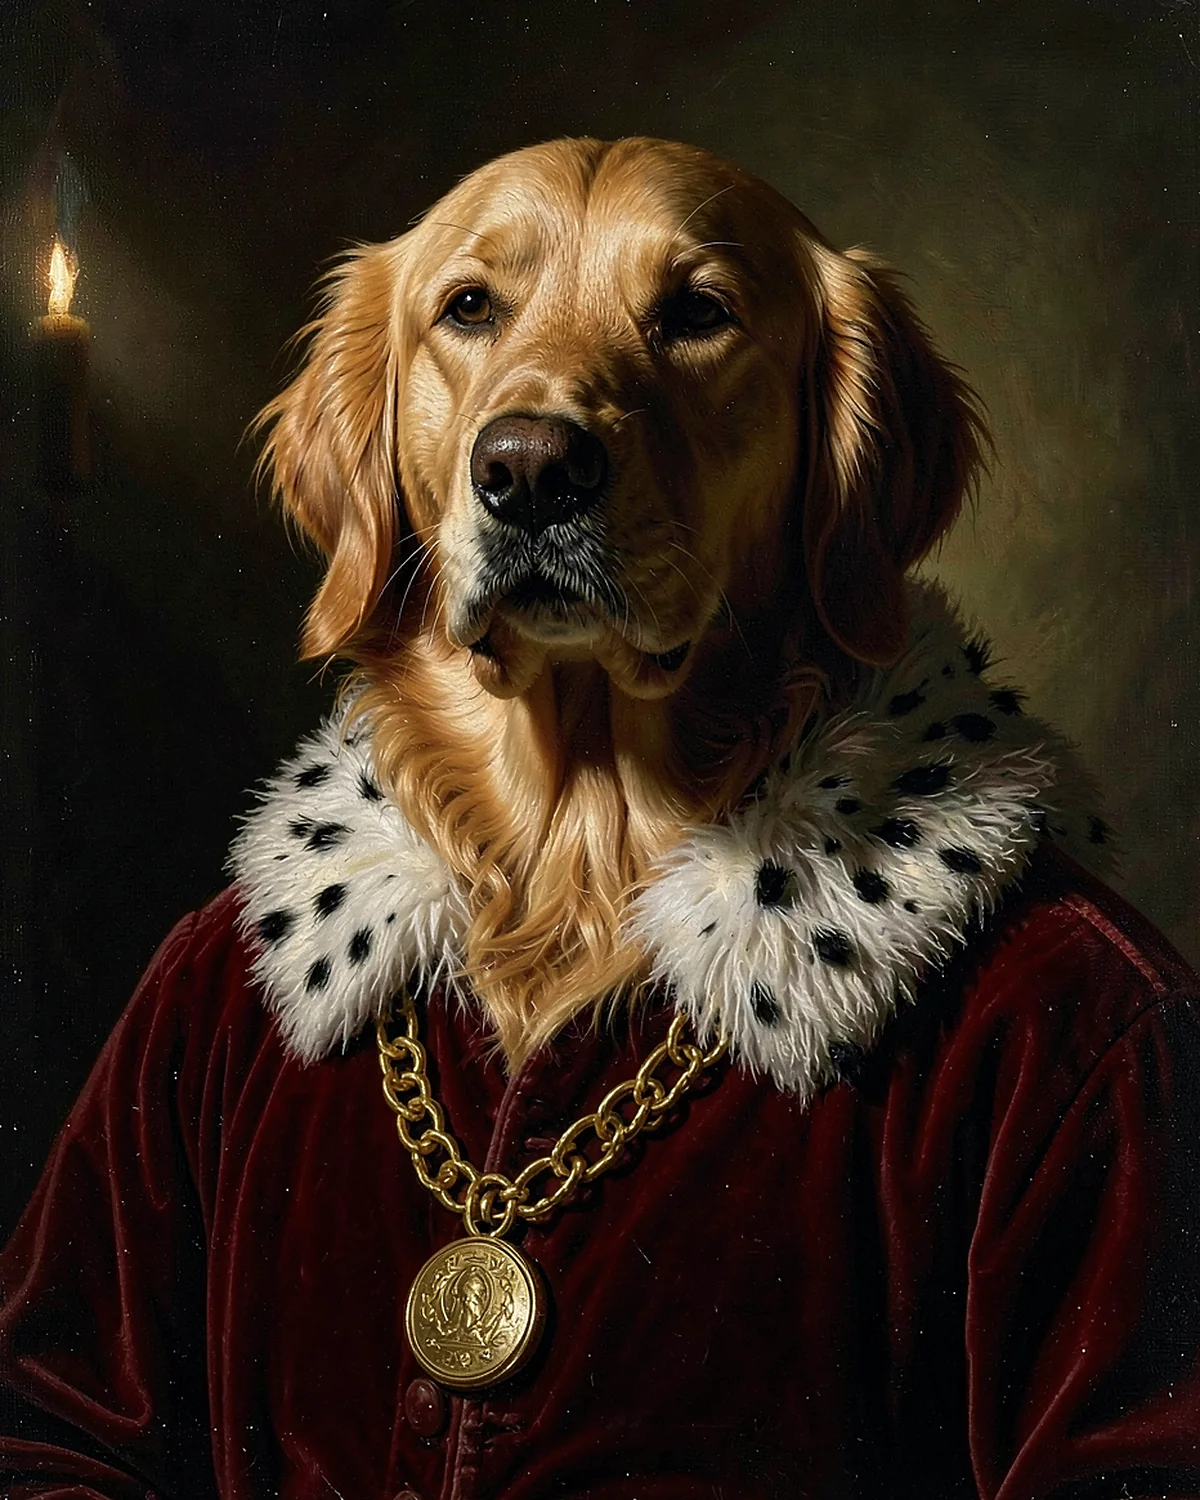
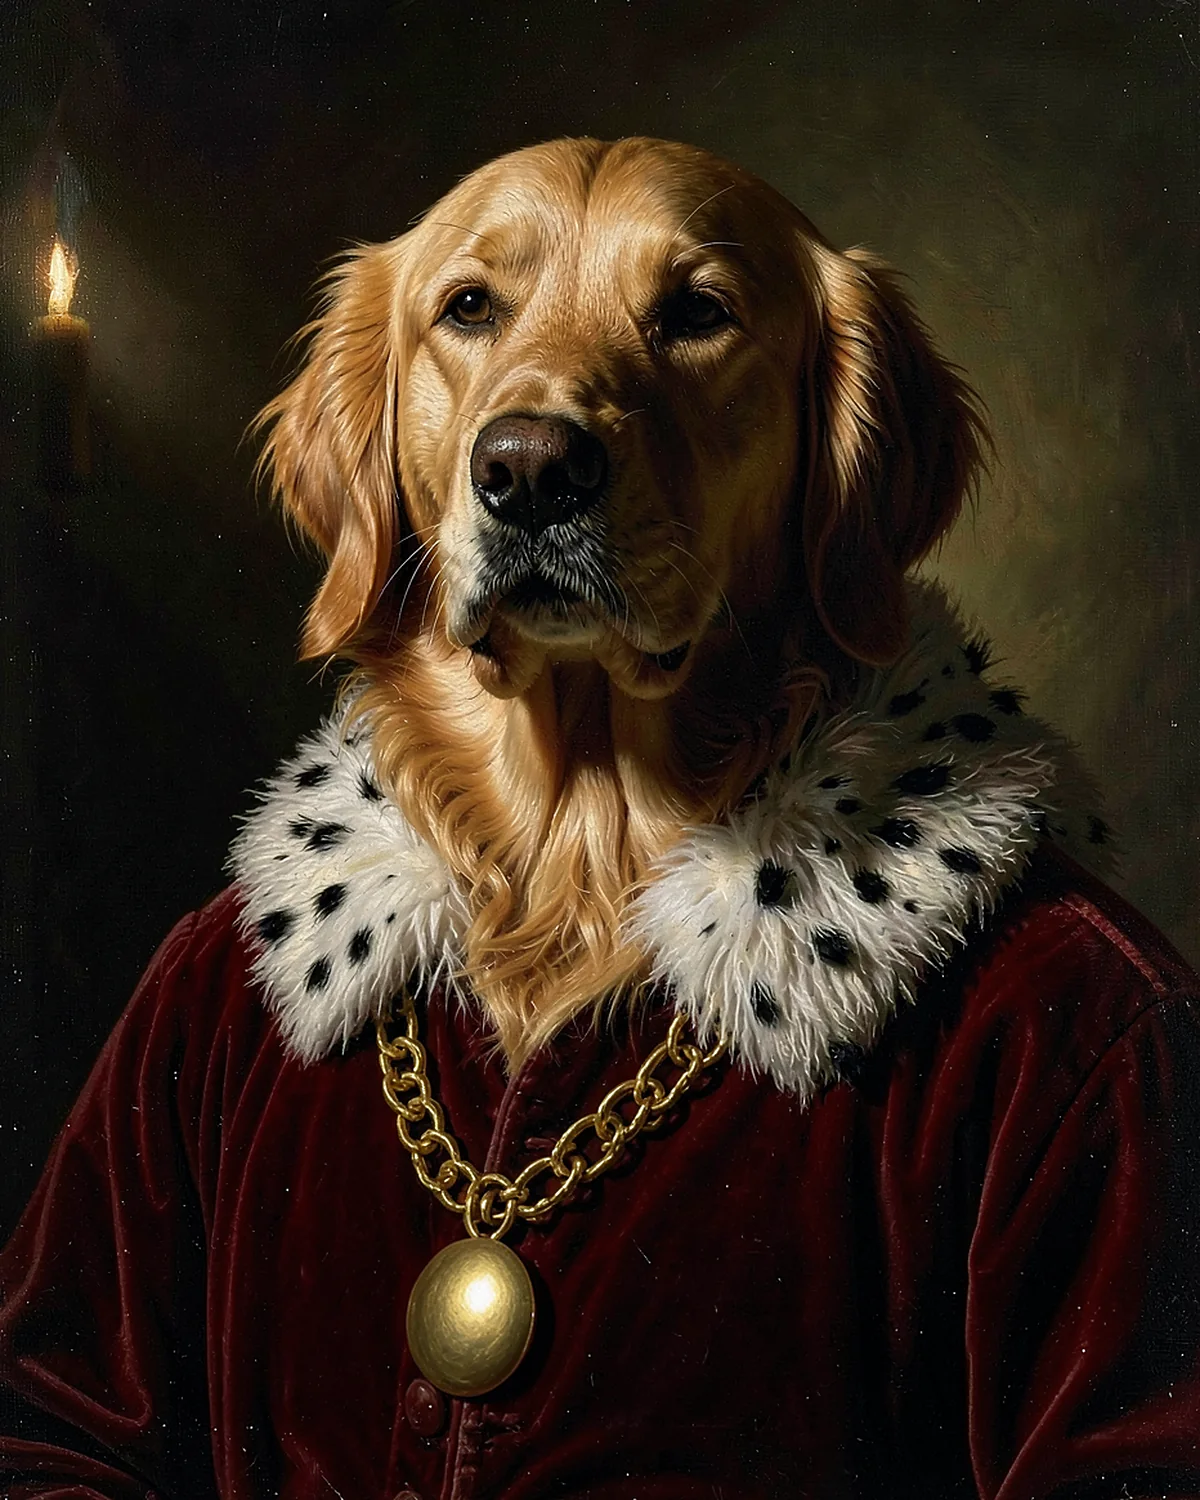
Style sample: The Admiral (labrador) + plain pendant on pair-1 royal golden
Claude-Session: https://claude.ai/code/session_01Q1G9K9iUNWePoTgYQBX8an

Changed region(s): [[0.3392, 0.7973, 0.4625, 0.9507]]

diff --git a/web/public/samples/CREDITS.md b/web/public/samples/CREDITS.md
@@ -16,7 +16,7 @@ text or jewellery, no watermarks).
     the same Apache-2.0 license.
 - **Text encoder:** Qwen3-4B (`Qwen/Qwen3-4B`, as bundled in the FLUX.2-klein-4B repository), **Apache-2.0**
   (https://huggingface.co/Qwen/Qwen3-4B).
-- **Retouching:** on royal.webp the medallion was re-rendered with the same model's inpainting pipeline
+- **Retouching:** on royal.webp and pair-1-after.webp the medallion was re-rendered with the same model's inpainting pipeline
   (`Flux2KleinInpaintPipeline`, masked to the pendant only) to replace engraved pseudo-lettering with a plain gold pendant.
 - **Finishing:** cropped 1.5% at the edges (removes the faint painted canvas edge), Lanczos resize to
   1200×1500, light unsharp mask, WebP quality 84 (Pillow).
@@ -37,7 +37,7 @@ anyway. None are Unsplash+ photos. Local copies (4:5 crops) live in `web/scripts
 |---|---|---|---|---|---|---|
 | royal.webp | The Royal | Cavalier King Charles Spaniel | cavalier-2.jpg | Tracy Anderson | https://unsplash.com/photos/OktYfwY5ZQI | FLUX.2 klein |
 | pair-3-before.webp (photo), pair-3-after.webp | The Admiral | Beagle | beagle.jpg | Nathanaël Desmeules | https://unsplash.com/photos/527_3nFNAPo | FLUX.2 klein |
-| admiral.webp | The Admiral | Beagle | beagle.jpg | Nathanaël Desmeules | https://unsplash.com/photos/527_3nFNAPo | legacy |
+| admiral.webp | The Admiral | Labrador Retriever | labrador-2.jpg | Not identified yet (free Unsplash CDN image) | https://images.unsplash.com/photo-1761797732084-eed42f058516 | FLUX.2 klein |
 | oil-classic.webp | Old Master | Labrador Retriever | labrador.jpg | Aniket Salve | https://unsplash.com/photos/IQ3FjY2Gdho | legacy |
 | pair-2-before.webp (photo), pair-2-after.webp | Watercolor | French Bulldog | french-bulldog.jpg | Eric Tan | https://unsplash.com/photos/p6qtH9kqjt8 | FLUX.2 klein |
 | watercolor.webp | Watercolor | French Bulldog | french-bulldog.jpg | Eric Tan | https://unsplash.com/photos/p6qtH9kqjt8 | legacy |
